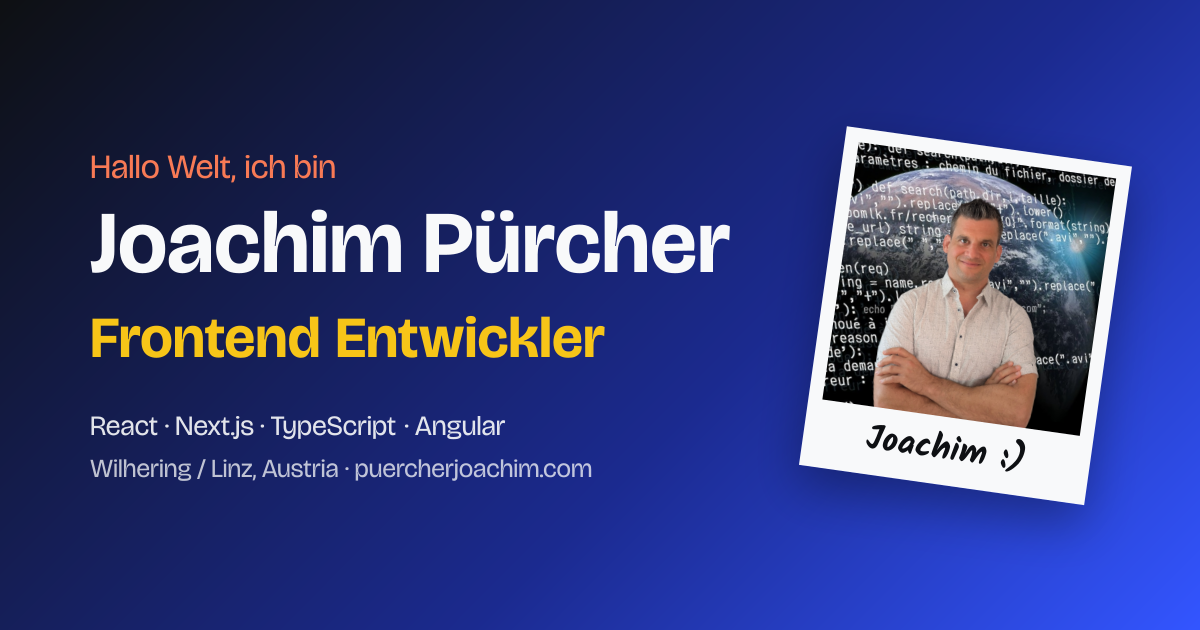
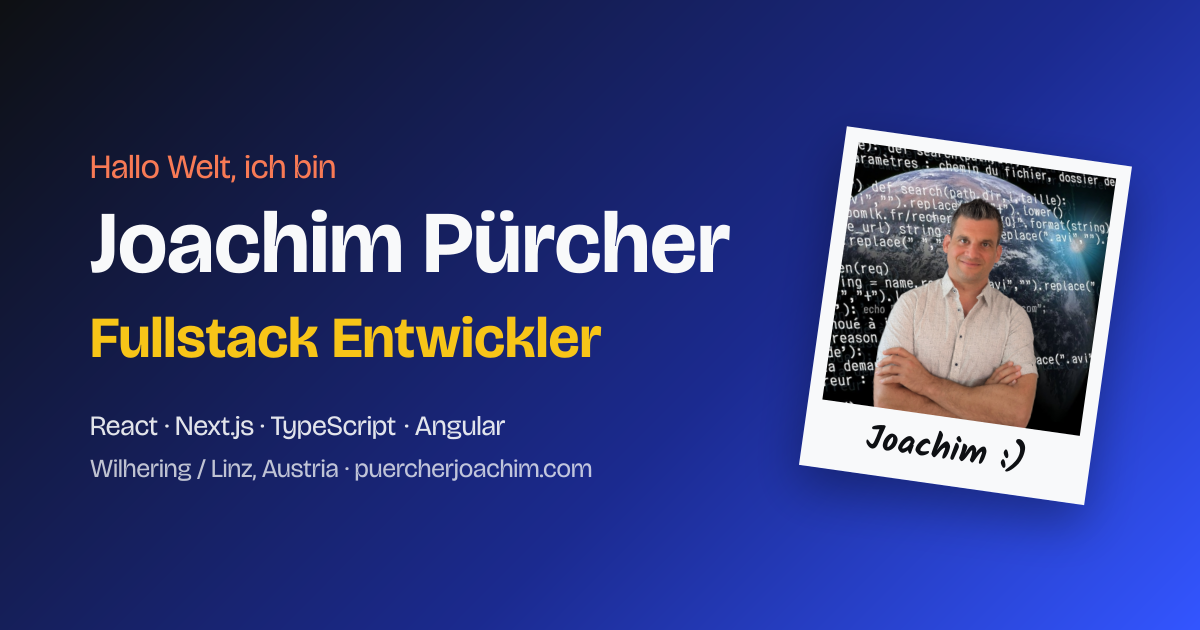
feat(content): position the portfolio as fullstack
Hero letters, job title and about text now describe fullstack work on Pulsify and byButterfly; the relocation card becomes an availability date. Open Graph images regenerated from the new job title.

Changed region(s): [[0.0925, 0.4825, 0.5242, 0.573]]

diff --git a/src/components/main/about-me/AboutMe.tsx b/src/components/main/about-me/AboutMe.tsx
@@ -6,13 +6,13 @@ import styles from "./AboutMe.module.css";
 
 const PAPERS = [
   { paper: "/images/about-me/Ripped-paper-yellow.png", paperAlt: "yellow paper background", icon: "/images/about-me/location-icon.png", iconAlt: "loaction logo", key: "basedIn" },
-  { paper: "/images/about-me/Ripped-paper-blue.png", paperAlt: "blue paper background", icon: "/images/about-me/relocate-icon.png", iconAlt: "relocate logo", key: "relocate" },
+  { paper: "/images/about-me/Ripped-paper-blue.png", paperAlt: "blue paper background", icon: "/images/about-me/relocate-icon.png", iconAlt: "availability logo", key: "availableFrom" },
   { paper: "/images/about-me/Ripped-paper-orange.png", paperAlt: "orange paper background", icon: "/images/about-me/remote-icon.png", iconAlt: "remote logo", key: "remote" },
 ] as const;
 
 /**
  * Angular: main/about-me.
- * Three stacked ripped-paper notes (location, relocation, remote) and the about text.
+ * Three stacked ripped-paper notes (location, availability, remote) and the about text.
  * Fix: Angular had the typo `data-aoss`, so this section never animated; now `data-aos`.
  */
 export default function AboutMe({ id }: { id?: string }) {
